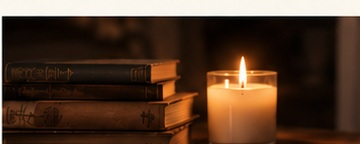
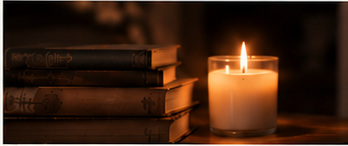
Add files via upload

diff --git a/styles.css b/styles.css
@@ -1,1 +1,81 @@
-:root{--cream:#faf5eb;--paper:#fcf7ed;--ink:#2e2017;--gold:#d9a24a;--line:#d7c9b7}*{box-sizing:border-box}html{scroll-behavior:smooth}body{margin:0;background:var(--cream);color:var(--ink);font-family:"Cormorant Garamond",Georgia,serif;font-size:20px;line-height:1.42}.shell{width:min(1160px,90vw);margin:auto}a{color:inherit;text-decoration:none}.header{min-height:165px;display:flex;align-items:flex-start;justify-content:space-between;padding-top:20px;position:relative}.brand img{width:300px;display:block;background:transparent}.header nav{display:flex;gap:42px;align-items:center;padding-top:25px;font-size:19px;margin-right:150px}.header nav a{padding-bottom:4px}.header nav a.active{border-bottom:1px solid #b89152}.navmoon{font-size:0;display:inline-block;width:18px;height:18px;border-radius:50%;box-shadow:-5px 1px 0 0 var(--gold);margin-left:2px;transform:rotate(-12deg);flex:0 0 auto}.header-note{position:absolute;right:0;top:66px;font-family:"Italianno",cursive;font-size:27px;line-height:.9;transform:rotate(-8deg);text-align:center}.header-note span{font-family:Georgia,serif;font-size:20px}.hero{display:grid;grid-template-columns:.78fr 1.22fr;gap:68px;align-items:center;padding:15px 0 42px}.intro{padding-left:12px}.intro h1{font-size:58px;font-weight:500;margin:0 0 25px}.intro p{font-size:23px;margin:0 0 18px;max-width:455px}.sign{font-family:"Italianno",cursive;margin-top:27px;display:flex;flex-direction:column;line-height:1}.sign em{font-size:31px}.sign span{font-size:43px;margin-top:7px}.hero-photo{margin:0;position:relative}.hero-photo:before{content:"";position:absolute;z-index:2;width:120px;height:26px;background:#e7dececc;top:-13px;left:43%;transform:rotate(2deg);box-shadow:0 1px 2px #6d5a4430}.hero-photo img{display:block;width:100%;aspect-ratio:1.38/1;object-fit:cover;box-shadow:0 10px 24px #62472c12}.divider{border-top:1px solid var(--line);height:38px;text-align:center;margin-top:5px}.divider span{position:relative;top:-17px;background:var(--cream);color:var(--gold);padding:0 18px}.cards{display:grid;grid-template-columns:repeat(3,1fr);gap:22px;padding:0 0 26px}.feature-card{background:#f8efe2;display:block;transition:transform .2s ease}.feature-card:hover{transform:translateY(-3px)}.feature-card img{display:block;width:100%;height:145px;object-fit:cover}.feature-copy{min-height:86px;padding:13px 17px 14px;display:flex;align-items:center;justify-content:space-between;gap:12px}.feature-copy h2{font-size:15px;letter-spacing:.25em;text-transform:uppercase;margin:0 0 3px;font-weight:600}.feature-copy p{font-size:17px;font-style:italic;margin:0;line-height:1.1}.feature-copy b{font-size:24px;font-weight:400}.bed{height:330px;position:relative;overflow:hidden}.bed>img{width:100%;height:100%;object-fit:cover;object-position:center}.bed-copy{position:absolute;inset:0;display:flex;align-items:flex-start;justify-content:center;padding-top:24px;text-align:center;color:#2b1d14;pointer-events:none}.bed-copy>p{font-size:21px;margin:0;background:rgba(250,245,235,.28);padding:2px 10px;border-radius:999px}footer{height:72px;display:flex;align-items:center;justify-content:space-between;font-size:12px;letter-spacing:.34em}.dear-page{min-height:70vh;display:grid;place-items:center;padding:35px 0 80px}.letter-card{position:relative;background:var(--paper);border:1px solid #eadfce;padding:28px 38px 32px;box-shadow:0 9px 25px #725a3d12}.standalone{width:min(650px,100%)}.letter-card:after{content:"";position:absolute;inset:0;pointer-events:none;opacity:.2;background-image:radial-gradient(#bcae98 .55px,transparent .55px);background-size:7px 7px}.letter-card>*{position:relative;z-index:1}.smallmoon{text-align:center;color:#e5a600;font-size:51px;line-height:1}.letter-card h1,.letter-card h2{text-align:center;font-size:44px;font-weight:500;margin:5px 0 20px}.letter-card label:not(.consent){display:block;font-size:23px;margin-bottom:9px}.letter-card textarea{width:100%;min-height:145px;resize:vertical;border:1px solid #cdbca5;border-radius:8px;background:#fffaf2;padding:14px;font:20px Georgia,serif;color:var(--ink)}.consent{display:flex;align-items:flex-start;gap:10px;margin:14px 0 16px;font-size:16px;line-height:1.25}.consent input{width:17px;height:17px;margin-top:3px;accent-color:var(--ink)}.letter-card button{width:100%;border:0;border-radius:12px;background:#3b281b;color:#fffaf1;padding:13px;font:24px "Cormorant Garamond",serif;cursor:pointer}.note{font-size:16px;line-height:1.25;margin:12px 0 0}.archive{min-height:65vh;text-align:center;padding:100px 0}.archive h1{font-size:58px;font-weight:500;margin:10px}.archive p{font-size:24px}.archive-moon{font-size:65px;color:#e5a600}.tiny{color:#e5a600;margin-top:35px}@media(max-width:820px){.shell{width:min(92vw,680px)}.header{min-height:135px;padding-top:14px}.brand img{width:205px}.header nav{gap:15px;font-size:16px;padding-top:15px;margin-right:0}.navmoon{font-size:23px}.header-note{display:none}.hero{grid-template-columns:1fr;gap:35px;padding-top:20px}.intro{padding-left:0}.intro h1{font-size:46px}.intro p{font-size:21px}.cards{grid-template-columns:1fr;gap:18px}.feature-card img{height:190px}.bed{height:280px}.bed-copy{padding:30px 20px 0}.bed-copy>p{font-size:18px}footer{height:65px}}
+:root{--cream:#fbf7ef;--paper:#fcf7ed;--ink:#2d2119;--gold:#d8a24b;--line:#d8c9b7}
+*{box-sizing:border-box}
+html{scroll-behavior:smooth}
+body{margin:0;background:var(--cream);color:var(--ink);font-family:"Cormorant Garamond",Georgia,serif;font-size:20px;line-height:1.42}
+.shell{width:min(1160px,91vw);margin:auto}
+a{color:inherit;text-decoration:none}
+.header{min-height:160px;display:flex;align-items:flex-start;justify-content:space-between;padding-top:18px}
+.brand img{display:block;width:360px;height:auto}
+.header nav{display:flex;align-items:center;gap:42px;padding-top:30px;font-size:19px}
+.header nav a{padding-bottom:4px}
+.header nav a.active{border-bottom:1px solid #c79647}
+.navmoon{display:inline-block;width:20px;height:20px;border-radius:50%;box-shadow:-6px 1px 0 0 var(--gold);margin-left:8px;transform:rotate(-12deg)}
+.hero{display:grid;grid-template-columns:.78fr 1.22fr;gap:70px;align-items:center;padding:0 0 42px}
+.intro{padding-left:12px}
+.intro h1{font-size:58px;font-weight:500;margin:0 0 25px}
+.intro p{font-size:23px;margin:0 0 18px;max-width:455px}
+.sign{font-family:"Italianno",cursive;margin-top:27px;display:flex;flex-direction:column;line-height:1}
+.sign em{font-size:31px}
+.sign span{font-size:43px;margin-top:7px}
+.hero-photo{margin:0}
+.hero-photo img{display:block;width:100%;aspect-ratio:1.55/1;object-fit:cover}
+.divider{border-top:1px solid var(--line);height:38px;text-align:center;margin-top:5px}
+.divider span{position:relative;top:-17px;background:var(--cream);color:var(--gold);padding:0 18px}
+.cards{display:grid;grid-template-columns:repeat(3,1fr);gap:22px;padding:0 0 26px}
+.feature-card{background:#f8efe2;display:block;transition:transform .2s ease}
+.feature-card:hover{transform:translateY(-3px)}
+.feature-card img{display:block;width:100%;height:145px;object-fit:cover}
+.feature-copy{min-height:86px;padding:13px 17px 14px;display:flex;align-items:center;justify-content:space-between;gap:12px}
+.feature-copy h2{font-size:15px;letter-spacing:.25em;text-transform:uppercase;margin:0 0 3px;font-weight:600}
+.feature-copy p{font-size:17px;margin:0;line-height:1.1}
+.feature-copy b{font-size:24px;font-weight:400}
+.bed{height:350px;position:relative;overflow:hidden}
+.bed>img{width:100%;height:100%;object-fit:cover;object-position:center}
+.bed-copy{position:absolute;inset:0;display:flex;flex-direction:column;align-items:center;padding-top:35px;text-align:center;color:#2b1d14;pointer-events:none}
+.bed-copy p{font-size:21px;margin:0 0 6px}
+.nite{font-family:"Italianno",cursive;font-size:39px;line-height:1}
+.heart{font-size:34px;line-height:1;margin-top:2px}
+
+/* Shared Dear M / Archive pages */
+.dear-page{min-height:70vh;display:grid;place-items:center;padding:35px 0 80px}
+.letter-card{position:relative;background:var(--paper);border:1px solid #eadfce;padding:28px 38px 32px;box-shadow:0 9px 25px #725a3d12}
+.standalone{width:min(650px,100%)}
+.letter-card:after{content:"";position:absolute;inset:0;pointer-events:none;opacity:.2;background-image:radial-gradient(#bcae98 .55px,transparent .55px);background-size:7px 7px}
+.letter-card>*{position:relative;z-index:1}
+.smallmoon{text-align:center;color:#e5a600;font-size:51px;line-height:1}
+.letter-card h1,.letter-card h2{text-align:center;font-size:44px;font-weight:500;margin:5px 0 20px}
+.letter-card label:not(.consent){display:block;font-size:23px;margin-bottom:9px}
+.letter-card textarea{width:100%;min-height:145px;resize:vertical;border:1px solid #cdbca5;border-radius:8px;background:#fffaf2;padding:14px;font:20px Georgia,serif;color:var(--ink)}
+.consent{display:flex;align-items:flex-start;gap:10px;margin:14px 0 16px;font-size:16px;line-height:1.25}
+.consent input{width:17px;height:17px;margin-top:3px;accent-color:var(--ink)}
+.letter-card button{width:100%;border:0;border-radius:12px;background:#3b281b;color:#fffaf1;padding:13px;font:24px "Cormorant Garamond",serif;cursor:pointer}
+.note{font-size:16px;line-height:1.25;margin:12px 0 0}
+.archive{min-height:65vh;text-align:center;padding:100px 0}
+.archive h1{font-size:58px;font-weight:500;margin:10px}
+.archive p{font-size:24px}
+.archive-moon{font-size:65px;color:#e5a600}
+.tiny{color:#e5a600;margin-top:35px}
+
+@media(max-width:820px){
+ .shell{width:min(92vw,680px)}
+ .header{min-height:125px;padding-top:12px}
+ .brand img{width:235px}
+ .header nav{gap:15px;font-size:16px;padding-top:17px}
+ .navmoon{width:16px;height:16px;margin-left:2px}
+ .hero{grid-template-columns:1fr;gap:30px;padding-top:12px}
+ .intro{padding-left:0}
+ .intro h1{font-size:46px}
+ .intro p{font-size:21px}
+ .hero-photo img{aspect-ratio:1.45/1}
+ .cards{grid-template-columns:1fr;gap:18px}
+ .feature-card img{height:190px}
+ .bed{height:290px}
+ .bed-copy{padding:28px 20px 0}
+ .bed-copy p{font-size:18px}
+ .nite{font-size:34px}
+}
+@media(max-width:560px){
+ .header{display:block;min-height:175px}
+ .brand img{width:260px;margin:auto}
+ .header nav{justify-content:center;padding-top:10px}
+}

diff --git a/index.html b/index.html
@@ -1,6 +1,64 @@
-<!doctype html><html lang="en"><head><meta charset="utf-8"><meta name="viewport" content="width=device-width,initial-scale=1"><title>M Before Bed</title><meta name="description" content="M Before Bed — thoughts, letters, and whatever comes before sleep."><link rel="preconnect" href="https://fonts.googleapis.com"><link rel="preconnect" href="https://fonts.gstatic.com" crossorigin><link href="https://fonts.googleapis.com/css2?family=Cormorant+Garamond:wght@400;500;600&family=Italianno&display=swap" rel="stylesheet"><link rel="stylesheet" href="styles.css"></head><body>
-<header class="shell header"><a href="/" class="brand"><img src="logo.png" alt="M Before Bed"></a><nav><a class="active" href="/">Home</a><a href="read.html">Archive</a><a href="dear-m.html">Dear M</a><span class="navmoon">☾</span></nav><div class="header-note">Good Things<br>Take Time. <span>♡</span></div></header>
-<main><section class="shell hero"><div class="intro"><h1>My Dear You,</h1><p>I have no idea what this blog is supposed to be yet.</p><p>It can be about anything and everything… or nothing at all.</p><p>But I know we’ll discover it together.</p><p>So, bear with me.</p><div class="sign"><em>xo,</em><span>— M. ♥</span></div></div><figure class="hero-photo"><img src="hero-cozy.png" alt="Warm bedside scene with flowers, candlelight, books, a moonlit window, and a Good Things Take Time mug"></figure></section>
+<!doctype html>
+<html lang="en">
+<head>
+<meta charset="utf-8">
+<meta name="viewport" content="width=device-width,initial-scale=1">
+<title>M Before Bed</title>
+<meta name="description" content="M Before Bed — thoughts, letters, and whatever comes before sleep.">
+<link rel="preconnect" href="https://fonts.googleapis.com">
+<link rel="preconnect" href="https://fonts.gstatic.com" crossorigin>
+<link href="https://fonts.googleapis.com/css2?family=Cormorant+Garamond:wght@400;500;600&family=Italianno&display=swap" rel="stylesheet">
+<link rel="stylesheet" href="styles.css">
+</head>
+<body>
+<header class="shell header">
+  <a href="/" class="brand"><img src="logo.png" alt="M Before Bed"></a>
+  <nav>
+    <a class="active" href="/">Home</a>
+    <a href="read.html">Archive</a>
+    <a href="dear-m.html">Dear M</a>
+    <span class="navmoon" aria-hidden="true"></span>
+  </nav>
+</header>
+
+<main>
+<section class="shell hero">
+  <div class="intro">
+    <h1>My Dear You,</h1>
+    <p>I have no idea what this blog is supposed to be yet.</p>
+    <p>It can be about anything and everything… or nothing at all.</p>
+    <p>But I know we’ll discover it together.</p>
+    <p>So, bear with me.</p>
+    <div class="sign"><em>xo,</em><span>— M. ♥</span></div>
+  </div>
+  <figure class="hero-photo"><img src="hero-cozy.jpg" alt="Cozy bedside scene with mug, candle, flowers and a full moon"></figure>
+</section>
+
 <div class="shell divider"><span>✦</span></div>
-<section class="shell cards"><a class="feature-card" href="read.html"><img src="archive-card.jpg" alt="Books and a candle in warm evening light"><div class="feature-copy"><div><h2>The Archive</h2><p>Thoughts, reflections, and everything in between.</p></div><b>→</b></div></a><a class="feature-card" href="dear-m.html"><img src="dear-card.jpg" alt="A handwritten Dear M letter"><div class="feature-copy"><div><h2>Dear M</h2><p>A private space for your thoughts.</p></div><b>→</b></div></a><a class="feature-card" href="#nite"><img src="softer-card.jpg" alt="A crescent moon glowing through a window"><div class="feature-copy"><div><h2>A Softer Place</h2><p>For the in-between, the maybe, and the more.</p></div><b>→</b></div></a></section>
-<section class="bed" id="nite"><img src="bed-footer.png" alt="Warm evening light across soft bedding"><div class="bed-copy"><p>Thank you for making it through another day.</p></div></section></main><footer class="shell"><span>M BEFORE BED</span><span>♥</span></footer></body></html>
+
+<section class="shell cards">
+  <a class="feature-card" href="read.html">
+    <img src="archive-card.jpg" alt="Books and a candle in warm evening light">
+    <div class="feature-copy"><div><h2>The Archive</h2><p>Thoughts, reflections, and everything in between.</p></div><b>→</b></div>
+  </a>
+  <a class="feature-card" href="dear-m.html">
+    <img src="dear-card.jpg" alt="A handwritten Dear M letter">
+    <div class="feature-copy"><div><h2>Dear M</h2><p>A private space for your thoughts.</p></div><b>→</b></div>
+  </a>
+  <a class="feature-card" href="#nite">
+    <img src="softer-card.jpg" alt="A crescent moon glowing through a window">
+    <div class="feature-copy"><div><h2>A Softer Place</h2><p>For the in-between, the maybe, and the more.</p></div><b>→</b></div>
+  </a>
+</section>
+
+<section class="bed" id="nite">
+  <img src="bed-footer.jpg" alt="Warm evening light across soft bedding and an open book">
+  <div class="bed-copy">
+    <p>Thank you for making it through another day.</p>
+    <div class="nite">nite nite for now...</div>
+    <div class="heart">♡</div>
+  </div>
+</section>
+</main>
+</body>
+</html>

diff --git a/dear-m.html b/dear-m.html
@@ -1,1 +1,1 @@
-<!doctype html><html lang="en"><head><meta charset="utf-8"><meta name="viewport" content="width=device-width,initial-scale=1"><title>Dear M — M Before Bed</title><link rel="preconnect" href="https://fonts.googleapis.com"><link rel="preconnect" href="https://fonts.gstatic.com" crossorigin><link href="https://fonts.googleapis.com/css2?family=Cormorant+Garamond:wght@400;500;600&family=Italianno&display=swap" rel="stylesheet"><link rel="stylesheet" href="styles.css"></head><body><header class="shell header"><a href="/" class="brand"><img src="logo.png" alt="M Before Bed"></a><nav><a href="/">Home</a><a href="read.html">Archive</a><a class="active" href="dear-m.html">Dear M</a><span class="navmoon">☾</span></nav></header><main class="shell dear-page"><form class="letter-card standalone" action="https://usebasin.com/f/3659bcba7d7a" method="POST"><div class="smallmoon">☾</div><h1>Dear M</h1><label for="letter">What’s on your mind?</label><textarea id="letter" name="letter" required placeholder="Write your letter here..."></textarea><label class="consent"><input type="checkbox" name="permission_to_share" value="yes"><span>You may share or discuss my letter on M Before Bed, without identifying me.</span></label><button type="submit">Send&nbsp;&nbsp;→</button><p class="note">Feel free to send whatever is weighing on your mind or heart. ♥<br>Your letter stays private unless you check the box above.</p></form></main><footer class="shell"><span>M BEFORE BED</span><span>♥</span></footer></body></html>
+<!doctype html><html lang="en"><head><meta charset="utf-8"><meta name="viewport" content="width=device-width,initial-scale=1"><title>Dear M — M Before Bed</title><link rel="preconnect" href="https://fonts.googleapis.com"><link rel="preconnect" href="https://fonts.gstatic.com" crossorigin><link href="https://fonts.googleapis.com/css2?family=Cormorant+Garamond:wght@400;500;600&family=Italianno&display=swap" rel="stylesheet"><link rel="stylesheet" href="styles.css"></head><body><header class="shell header"><a href="/" class="brand"><img src="logo.png" alt="M Before Bed"></a><nav><a href="/">Home</a><a href="read.html">Archive</a><a class="active" href="dear-m.html">Dear M</a><span class="navmoon" aria-hidden="true"></span></nav></header><main class="shell dear-page"><form class="letter-card standalone" action="https://usebasin.com/f/3659bcba7d7a" method="POST"><div class="smallmoon">☾</div><h1>Dear M</h1><label for="letter">What’s on your mind?</label><textarea id="letter" name="letter" required placeholder="Write your letter here..."></textarea><label class="consent"><input type="checkbox" name="permission_to_share" value="yes"><span>You may share or discuss my letter on M Before Bed, without identifying me.</span></label><button type="submit">Send&nbsp;&nbsp;→</button><p class="note">Feel free to send whatever is weighing on your mind or heart. ♥<br>Your letter stays private unless you check the box above.</p></form></main><footer class="shell"><span>M BEFORE BED</span><span>♥</span></footer></body></html>

diff --git a/read.html b/read.html
@@ -1,1 +1,1 @@
-<!doctype html><html lang="en"><head><meta charset="utf-8"><meta name="viewport" content="width=device-width,initial-scale=1"><title>Archive — M Before Bed</title><link rel="preconnect" href="https://fonts.googleapis.com"><link rel="preconnect" href="https://fonts.gstatic.com" crossorigin><link href="https://fonts.googleapis.com/css2?family=Cormorant+Garamond:wght@400;500;600&family=Italianno&display=swap" rel="stylesheet"><link rel="stylesheet" href="styles.css"></head><body><header class="shell header"><a href="/" class="brand"><img src="logo.png" alt="M Before Bed"></a><nav><a href="/">Home</a><a class="active" href="read.html">Archive</a><a href="dear-m.html">Dear M</a><span class="navmoon">☾</span></nav></header><main class="archive shell"><span class="archive-moon">☾</span><h1>Archive</h1><p>Your words will live here when you’re ready.</p><div class="tiny">✦</div></main><footer class="shell"><span>M BEFORE BED</span><span>♥</span></footer></body></html>
+<!doctype html><html lang="en"><head><meta charset="utf-8"><meta name="viewport" content="width=device-width,initial-scale=1"><title>Archive — M Before Bed</title><link rel="preconnect" href="https://fonts.googleapis.com"><link rel="preconnect" href="https://fonts.gstatic.com" crossorigin><link href="https://fonts.googleapis.com/css2?family=Cormorant+Garamond:wght@400;500;600&family=Italianno&display=swap" rel="stylesheet"><link rel="stylesheet" href="styles.css"></head><body><header class="shell header"><a href="/" class="brand"><img src="logo.png" alt="M Before Bed"></a><nav><a href="/">Home</a><a class="active" href="read.html">Archive</a><a href="dear-m.html">Dear M</a><span class="navmoon" aria-hidden="true"></span></nav></header><main class="archive shell"><span class="archive-moon">☾</span><h1>Archive</h1><p>Your words will live here when you’re ready.</p><div class="tiny">✦</div></main><footer class="shell"><span>M BEFORE BED</span><span>♥</span></footer></body></html>
